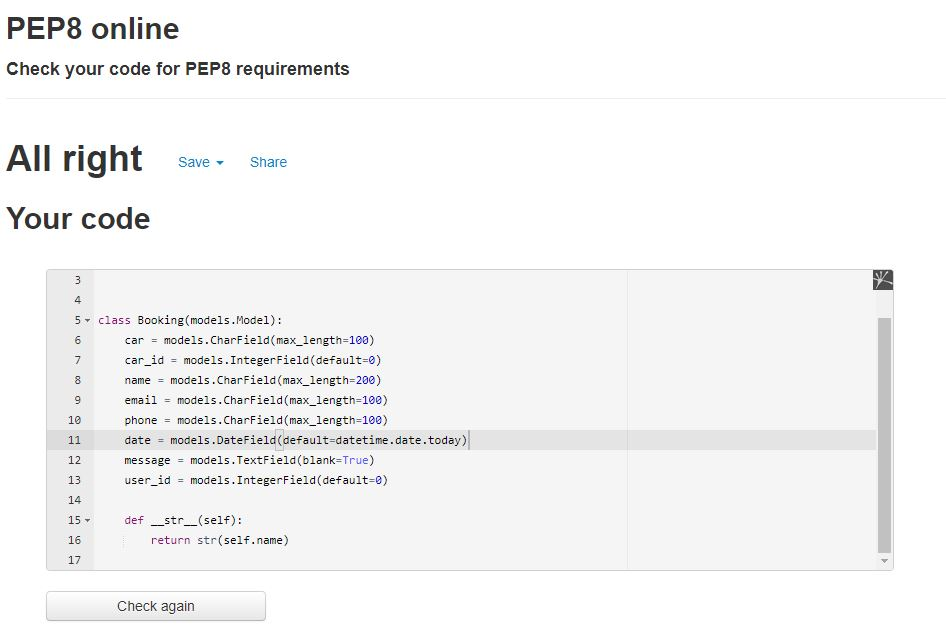
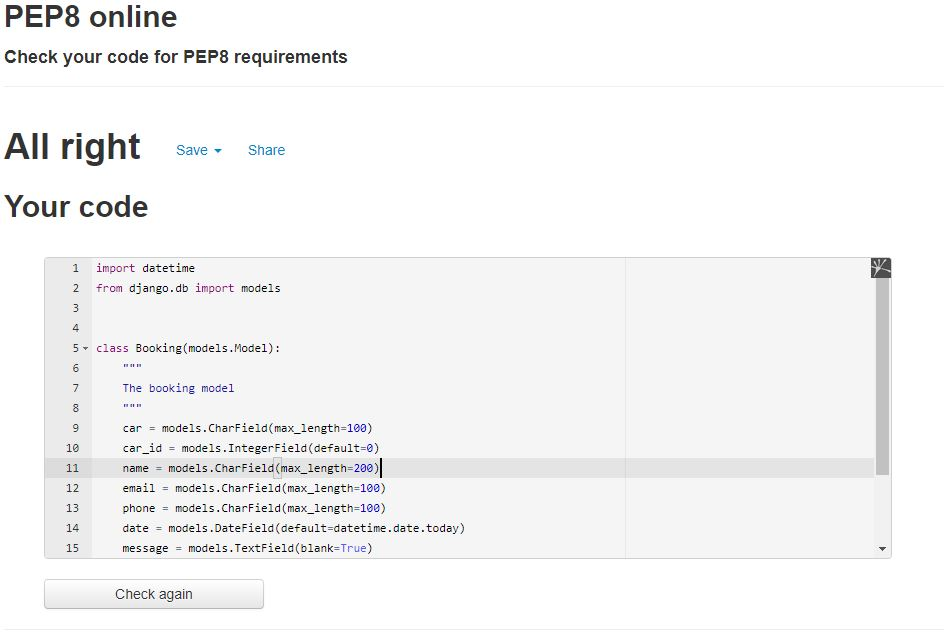
Replace python validation images after PEP8 validation

diff --git a/home/views.py b/home/views.py
@@ -44,8 +44,8 @@ def search(request):
 
 
 def error_404(request, exception):
-    """ 
-    Customized 404 error page 
+    """
+    Customized 404 error page
     to display relevant message
     to the user
     """
@@ -53,8 +53,8 @@ def error_404(request, exception):
 
 
 def error_500(request):
-    """ 
-    Customized 500 error page 
+    """
+    Customized 500 error page
     to display relevant message
     to the user
     """

diff --git a/booking/models.py b/booking/models.py
@@ -3,7 +3,9 @@ from django.db import models
 
 
 class Booking(models.Model):
-    """ The booking model """
+    """
+    The booking model
+    """
     car = models.CharField(max_length=100)
     car_id = models.IntegerField(default=0)
     name = models.CharField(max_length=200)

diff --git a/speedy_cars/settings.py b/speedy_cars/settings.py
@@ -30,7 +30,7 @@ SECRET_KEY = os.environ.get('SECRET_KEY')
 
 # SECURITY WARNING: don't run with debug turned on in production!
 
-DEBUG = True
+DEBUG = False
 X_FRAME_OPTIONS = 'SAMEORIGIN'
 
 ALLOWED_HOSTS = ['speedy-cars.herokuapp.com', 'localhost']

diff --git a/booking/admin.py b/booking/admin.py
@@ -14,3 +14,4 @@ class BookingAdmin(admin.ModelAdmin):
 
 
 admin.site.register(Booking, BookingAdmin)
+

diff --git a/README.md b/README.md
@@ -49,7 +49,7 @@ The primary goal of the website from a site user’s perspective is as follows:
   - Diesel
   - Hybrid
   - Electric
-- As a user, I want to see professional descriptions of each car available for sale along with relevant pictures.
+- As a user, I want to see descriptions of each car available for sale along with relevant pictures.
 - As a user, I want to be able to navigate the website quickly and easily.
 - As a user, I want to be able to use the search option to find the car I’m looking for.
 - As a user, I want to be able to view the price of the cars.
@@ -670,7 +670,7 @@ If all **Is for sale** check boxes are deselected an appropriate message will be
 | User requirements | Implemented | Tested | Comments
 | ------------ | ----------- | ------ | --------
 |I want to be able to view all available cars in one of the categories:Petrol, Diesel, Hybrid, Electric|Yes|Yes|On the search page, the user can select the cars in each of the four available categories.
-|I want to see professional descriptions of each car available for sale along with relevant pictures|Yes|Yes|When the user clicks on the 'More info' button on the car card, additional photos of the car and a description will be shown.
+|I want to see descriptions of each car available for sale along with relevant pictures|Yes|Yes|When the user clicks on the 'More info' button on the car card, additional photos of the car and a description will be shown.
 |I want to be able to navigate the website quickly and easily|Yes|Yes| The website is uncomplicated in layout and has clear and intuitive navigation.
 |I want to be able to use the search option to find the car I’m looking for|Yes|Yes| The search page has an option to search for a car according to specific user requirements.
 |I want to be able to view the price of the cars|Yes|Yes| Each car presented on the website has a label with the price.
